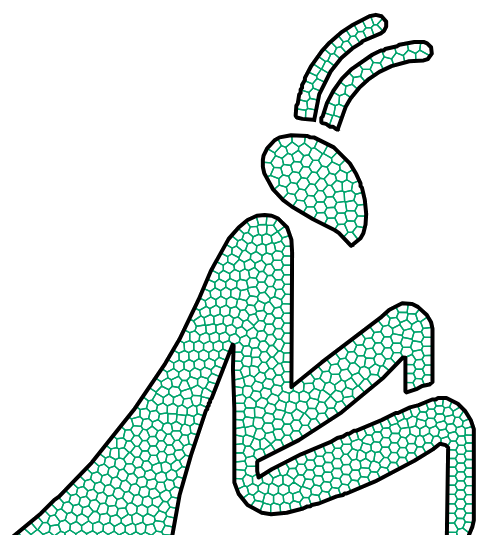
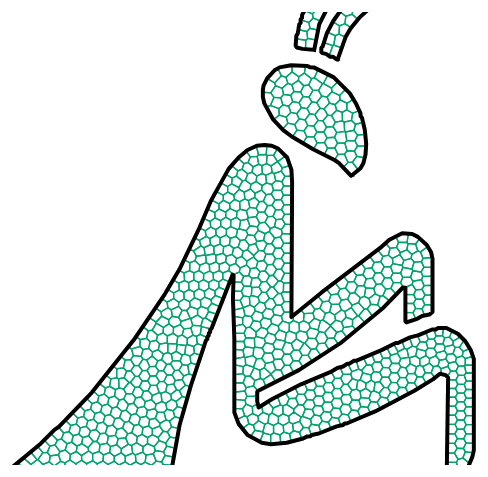
tighten project preview layout

Changed region(s): [[0.0307, 0.0, 0.9836, 0.9979]]

diff --git a/index.html b/index.html
@@ -43,8 +43,11 @@
         }
         .project-media {
             width: 180px;
+            height: 140px;
             flex-shrink: 0;
-            display: block;
+            display: flex;
+            align-items: center;
+            justify-content: flex-start;
         }
         .project-copy {
             flex: 1;
@@ -58,11 +61,12 @@
         }
         .project-preview {
             width: 180px;
-            max-width: 100%;
-            height: auto;
+            height: 140px;
             display: block;
             background: transparent;
             border: none;
+            object-fit: contain;
+            object-position: left center;
         }
         .project-links {
             display: flex;
@@ -82,7 +86,7 @@
             }
             .project-feature {
                 flex-direction: row;
-                align-items: center;
+                align-items: flex-start;
                 gap: 22px;
             }
         }
